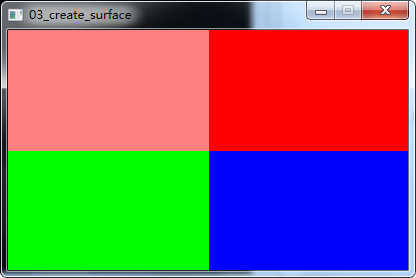
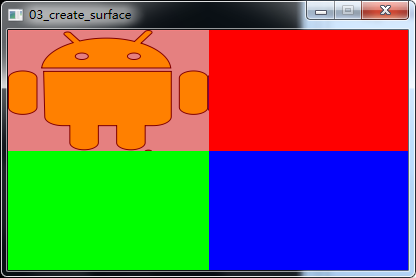
YES
明天的也写好了

diff --git a/SDL2Teach/v3/03_create_surface.html b/SDL2Teach/v3/03_create_surface.html
@@ -29,9 +29,11 @@ Copyright © 2014-2015 冯世昌 保留所有权利
 </ol>
 </div>
 <div id="page">
-<center><span class="date">努力码字中…不急</span></center>
-<p>本课的内容牵涉到数据的结构问题，先给大家讲解一下在颜色是怎么表示的，学美术的大概听过混合色这个词吧？电脑上的颜色都是混合色，由基本的红、绿、蓝三种颜色混合而成，即RGB颜色，有木有人问透明度用什么表示？答案是alpha，由此，颜色的构成便有4个元素：红R、绿G、蓝B、透明度A；这是目前我遇到的比较完整的颜色表示，每一个元素取值0~255即一个字节，一个RGBA颜色占空间=sizeof(char)*8*4=32位，那么我们来建一个2x2的像素点内存</p>
-<pre>const int bitmap_w=2,bitmap_h=2;
+<center><span class="date">2015-7-22 14:04 最后编辑</span></center>
+<p>本课的内容牵涉到数据的结构问题，先给大家讲解一下在颜色是怎么表示的，学美术的大概听过混合色这个词吧？电脑上的颜色都是混合色，由基本的红、绿、蓝三种颜色混合而成，即RGB颜色，有木有人问透明度用什么表示？答案是alpha，由此，颜色的构成便有4个元素：红R、绿G、蓝B、透明度A；这是目前我遇到的比较完整的颜色表示，每一个元素取值0~255即一个字节，一个RGBA颜色占空间=sizeof(char)*8*4=32位，那么我们来建一个2x2的像素点内存，打开上课的代码，添加：</p>
+<pre>// 创建的表面
+SDL_Surface *created = NULL;
+const int bitmap_w=2,bitmap_h=2;
 //表面数据
 Uint32 bitmap[]=
 {
@@ -47,10 +49,19 @@ Uint32 bitmap[]=
 <span style="color:rgba(0,0,255,1);">0x0000ffff</span>，我把这4种颜色用网页渲染出来了，从网页效果可以看出哪一部分数据代表那种颜色，如果还不明白，看看下面的图片：
 </p>
 <center><img  src="scr_shoot/color_format.png" class="scr_shoot"></img><div class="t">RGBA颜色结构示意图图</div></center>
-<p>现在，位图信息搞好了，接下来到了正题，创建Surface，且看代码：</p>
-<pre></pre>
+<p>现在，位图信息搞好了，接下来到了正题，创建表面created，且看代码：</p>
+<pre>int CreateSurface()
+{
+    created = SDL_CreateRGBSurfaceFrom((void *) bitmap, bitmap_w, bitmap_h, sizeof(Uint32) * 8, bitmap_w * sizeof(Uint32) , 0xFF000000, 0x00FF0000, 0x0000FF00, 0x000000FF);
 
+    if (created == NULL)
+        return -1;
 
+    return 0;
+}</pre>
+<p>我们使用函数SDL_CreateRGBSurfaceFrom来创建表面，第一个参数，接受一个void*类型的内存地址，这里我们把bitmap转化为了数据指针，接下来的两个参数指定了表面的宽高，第四个参数，是一个颜色所占的储存的位的长度，即4个char空间一共32位，第五个参数，设置的是一行像素的字节长度，这里是 bitmap_w * sizeof(Uint32)=2x4=8,最后四个参数指定了R、G、B、A四种颜色参数所属内存空间，即颜色的格式，我们本节课的颜色格式在SDL2中的标识符为SDL_PIXELFORMAT_RGBA8888<br/>如今表面已经创建，直接把他应用在窗口的表面上，全屏，不然2x2的区域。。。太小了，目测不到，运行效果如下图：</p>
+<center><img  src="scr_shoot/03_1.png" class="scr_shoot"></img><div class="t">运行效果图</div></center>
+<p>呐，我还特地把上节课的图片保留了下来，为的是看清楚透明度7F与FF的差别，看看，左上角和右上角的区别看得出来吧？？</p>
 <div align="center"> <a href="#top" rel="goto Top" ><div id="gotop">回到顶部</div></a></div>
 </div>
 

diff --git a/SDL2Teach/v3/contents.html b/SDL2Teach/v3/contents.html
@@ -34,8 +34,8 @@ Copyright © 2014-2015 冯世昌 保留所有权利
 
 <li><a href="01_init_and_create_window.html" ><div>第一课 初始化和创建窗口 <span class="finsh">(finsh)</span><div class="ico">&gt;</div></div></a></li>
 <li><a href="02_load_image.html" ><div>第二课 创建图片表面 <span class="new">(new)</span><div class="ico">&gt;</div></div></a></li>
-<li><a href="03_create_surface.html" ><div>第三课 创建普通表面 <span class="wait">(waiting...)</span><div class="ico">&gt;</div></div></a></li>
-<li><a href="04_use_ttf.html" ><div>第四课 创建文字表面 <span class="wait">(wait)</span><div class="ico">&gt;</div></div></a></li>
+<li><a href="03_create_surface.html" ><div>第三课 创建普通表面 <span class="new">(new)</span><div class="ico">&gt;</div></div></a></li>
+<li><a href="04_use_ttf.html" ><div>第四课 创建文字表面 <span class="wait">(waiting...)</span><div class="ico">&gt;</div></div></a></li>
 <li><a href="05_op_surface.html" ><div>第五课 表面的调整 <span class="wait">(wait)</span><div class="ico">&gt;</div></div></a></li>
 <li><a href="06_geometry_rendering.html" ><div>第六课 几何绘图 <span class="wait">(wait)</span><div class="ico">&gt;</div></div></a></li>
 <li><a href="07_rendering_surface.html" ><div>第七课 渲染表面 <span class="wait">(wait)</span><div class="ico">&gt;</div></div></a></li>
